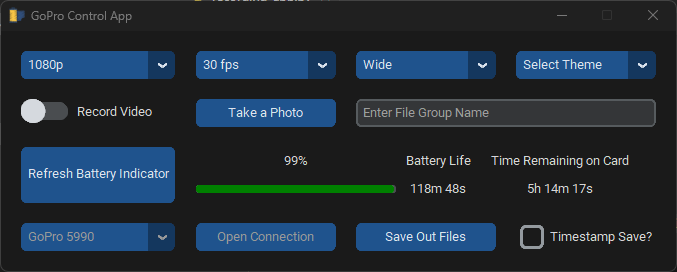
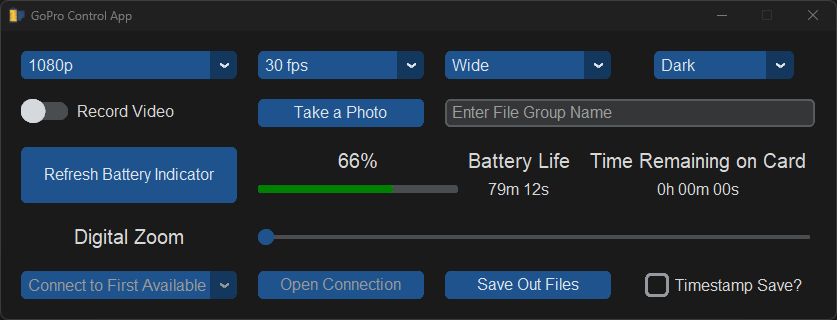
docs: Updates documentation for the added zoom
also updated for the change in font style.

diff --git a/Docs/README.md b/Docs/README.md
@@ -44,11 +44,16 @@ right of the app. This app was designed in dark mode so it is preferred aestheti
    ![High Battery](https://github.com/iSensTeam/GoPro-App/blob/main/Docs/Media/Battery%20High.png)
    ![Medium Battery](https://github.com/iSensTeam/GoPro-App/blob/main/Docs/Media/Battery%20Medium.png)
    ![Low Battery](https://github.com/iSensTeam/GoPro-App/blob/main/Docs/Media/Battery%20Low.png)
-10. **GoPro selector**: Dropdown menu for selecting which GoPro to connect to
+10. **Digital Zoom Slider**: Allows you to give the GoPro a digital zoom.
+    > **Note**
+    >
+    > The motion of zooming with the slider is choppy due to the frequency of sending the commands at a low rate
+
+11. **GoPro selector**: Dropdown menu for selecting which GoPro to connect to
     - If your GoPro is not listed, you can select the ability to connect to the first available GoPro
-11. **Connection Button**: Button to start the connection to the GoPro
-12. **File Transfer Button**: When clicked, all new files are saved into the user defined subdirectory from GUI element 7
-13. **Timestamp Checkbox**: When checked, a timestamp for when the files were saved is added to the beginning of all transferred files in the format of 
+12. **Connection Button**: Button to start the connection to the GoPro
+13. **File Transfer Button**: When clicked, all new files are saved into the user defined subdirectory from GUI element 7
+14. **Timestamp Checkbox**: When checked, a timestamp for when the files were saved is added to the beginning of all transferred files in the format of 
 YYYYMMDD_HHMMSS_"GoPro file name"
 
 > **Note**
@@ -231,7 +236,7 @@ pyinstaller has difficulty finding all of the files for customtkinter, the packa
 > staff for what is and is not allowed when interacting with participants.
 
 # Author
-Code written by [Nabeel Chowdhury](https://www.nabeelchowdhury.com/)
+Code and documentation written by [Nabeel Chowdhury](https://www.nabeelchowdhury.com/)
 
 # Acknowledgements
 App icon from: <a href="https://www.flaticon.com/free-icons/analog" title="analog icons">Analog icons created by juicy_fish - Flaticon</a>
